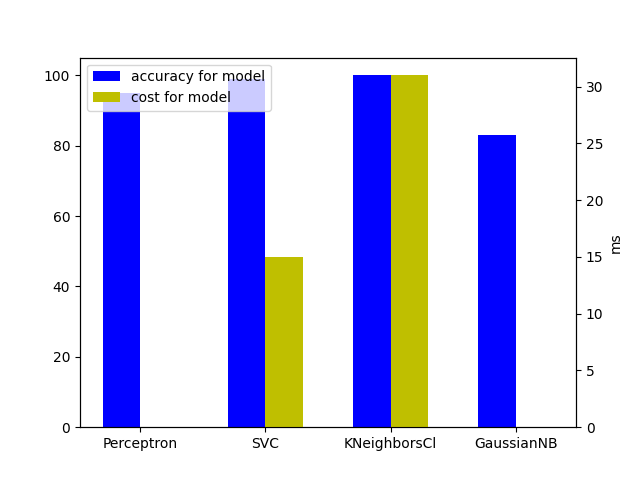
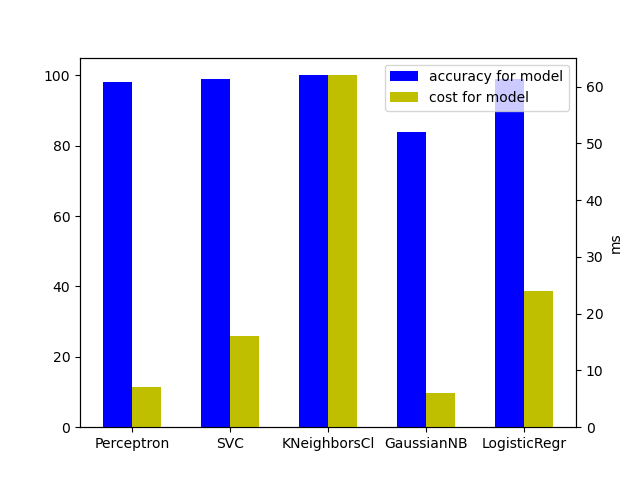
Added LogisticRegression

diff --git a/banknotes.py b/banknotes.py
@@ -17,22 +17,7 @@ from sklearn import svm
 from sklearn.linear_model import Perceptron
 from sklearn.naive_bayes import GaussianNB
 from sklearn.neighbors import KNeighborsClassifier
-
-
-"""
-seea also:
-https://github.com/DarkGoomba/scikit-learn-banknote/blob/master/Banknote%20Authentication.ipynb
-for some dettagle
-"""
-
-"""
-In the US there is about one counterfeit banknote for every 10,000 genuine banknotes.
-Although they are nearly impossible to identify with the naked eye, image
-processing is one method that can be used to spot discrepencies in counterfeit notes.
-Given a dataset of over a thousand notes with 4 attributes each, we can use machine
-learning models such as logistic regression and K-nearest neighbors to train an
-AI to classify banknotes.
-"""
+from sklearn.linear_model import LogisticRegression
 
 # Read data in from file
 with open("banknotes.csv") as f:
@@ -44,7 +29,10 @@ with open("banknotes.csv") as f:
         # print(row)
         data.append({
             "evidence": [float(cell) for cell in row[:4]],
-            "label": "Authentic" if row[4] == "0" else "Counterfeit"
+            "label": "Authentic" if row[4] == "0" else "Counterfeit",
+            # green Authentic - red Counterfeit
+            "color": (1, 0, 0) if row[4] == "0" else (0, 1, 0),
+            "class": row[4]
         })
 
 # pprint.pprint(data)
@@ -65,6 +53,7 @@ testing = data[:holdout]
 training = data[holdout:]
 
 X = [row["evidence"] for row in data]
+C = [row["color"] for row in data]
 
 attr = ['Variance', 'Skewness', 'Curtosis', 'Entropy', 'Class']
 
@@ -79,18 +68,28 @@ axarr[1, 0].hist([ r[2] for r in X], 30, density=True, stacked=True)
 axarr[1, 0].set_title(attr[2])
 axarr[1, 1].hist([ r[3] for r in X], 30, density=True, stacked=True)
 axarr[1, 1].set_title(attr[3])
-plt.savefig('graphs/distribution of each of these attributes.png')
+plt.savefig('graphs/distribution_attributes.png')
+plt.close()
+
+# scatter
+fig, axarr = plt.subplots(1, 2)
+axarr[0].scatter(x=[ r[0] for r in X],y=[ r[1] for r in X],c=C,s=15, cmap='PiYG', alpha=0.3)
+axarr[0].set(xlabel=attr[0], ylabel=attr[1])
+axarr[1].scatter(x=[ r[2] for r in X],y=[ r[3] for r in X],c=C,s=15, cmap='PiYG', alpha=0.3)
+axarr[1].set(xlabel=attr[2], ylabel=attr[3])
+fig.subplots_adjust(wspace=0.35)
+plt.savefig('graphs/scatter_plots.png')
 plt.close()
 
 model = None
 
 res = array([
     ['Model','Correct','Incorrect','Accuracy (%)','Cost (ms)'],
-    [0,0,0,0,0], [0,0,0,0,0], [0,0,0,0,0], [0,0,0,0,0] ])
+    [0,0,0,0,0], [0,0,0,0,0], [0,0,0,0,0], [0,0,0,0,0], [0,0,0,0,0] ])
 
-graf_res = array([[0,0,0,0],[0,0,0,0],[0,0,0,0],[0,0,0,0]])
+graf_res = array([[0,0,0,0,0],[0,0,0,0,0],[0,0,0,0,0],[0,0,0,0,0]])
 
-for x in range(4):
+for x in range(5):
 
     if x == 0:
         model = Perceptron()
@@ -100,6 +99,8 @@ for x in range(4):
         model = KNeighborsClassifier(n_neighbors=1)
     if x == 3:
         model = GaussianNB()
+    if x == 4:
+        model = LogisticRegression()
 
     t = time.process_time()
 
@@ -199,4 +200,21 @@ plt.ylabel('ms')
 plt.legend([acc, cost],['accuracy for model', 'cost for model'])
 
 plt.savefig('graphs/graph_acc_cost.png')
+plt.close()
+
+
+df = pd.DataFrame(X)
+fig, ax = plt.subplots()
+logreg = LogisticRegression()
+logreg.fit(df.iloc[:,[0,1]],[row["class"] for row in data])
+xx, yy = np.mgrid[-7.5:7.5:0.01, -15:15:0.01]
+grid = np.c_[xx.ravel(), yy.ravel()]
+probs = logreg.predict_proba(grid)[:, 1].reshape(xx.shape)
+contour = ax.contourf(xx, yy, probs, 25, cmap='PiYG', vmin=0, vmax=1)
+axcontour = fig.colorbar(contour)
+axcontour.set_label('Probability')
+axcontour.set_ticks([0, 0.25, 0.5, 0.75, 1])
+ax.scatter(x=[ r[0] for r in X],y=[ r[1] for r in X],c=C, s=15, cmap='PiYG', alpha=0.3, vmin=-0.4, vmax=1.4, data=data)
+ax.set(xlabel=attr[0], ylabel=attr[1])
+plt.savefig('graphs/probability_logistic_regression.png')
 plt.close()

diff --git a/README.md b/README.md
@@ -5,8 +5,8 @@ di Nicole Stolbovoi [MAT. 709168] e Luca Zeverino [MAT. 698710]
 # Indice  
 
 ### 1. [Introduzione](#1)  
-  
-### 2. [Metodologia](#2) 
+
+### 2. [Metodologia](#2)
  1. [Apprendimento supervisionato](#2.1)  
  2. [Tecniche di ML](#2.2)  
      2.1 [Support Vector Machine](#2.2.1)  
@@ -24,8 +24,8 @@ di Nicole Stolbovoi [MAT. 709168] e Luca Zeverino [MAT. 698710]
  7. [Valutazione delle prestazioni](#3.7)             
 
 ### 4. [Conclusioni](#4)
-              
-# <span id = "1">1. Introduzione</span> 
+
+# <span id = "1">1. Introduzione</span>
 <p align="justify">Negli Stati Uniti c'è circa una banconota contraffatta ogni 10.000 banconote autentiche. Da quando negli ultimi anni è stato lanciato il servizio di deposito diretto in contanti ai bancomat, le banconote contraffatte sono diventate un problema non solo per i commercianti, ma anche per le banche. Sebbene siano quasi impossibili da identificare ad occhio nudo, l'elaborazione delle immagini è un metodo che può essere utilizzato per individuare le discrepanze nelle banconote contraffatte.</p>
 <p align="justify">Dato un set di dati di oltre mille banconote con 4 attributi ciascuno, possiamo utilizzare modelli di apprendimento automatico come la regressione logistica e K-neirest neighbors per addestrare un'IA per classificare le banconote.</p>
 <p align="justify">Le immagini sono state tratte da banconote autentiche e contraffatte (n=1372). Ci sono quattro attributi in questo set di dati: varianza dell'immagine trasformata Wavelet (WTI), asimmetria del WTI, curvatura del WTI, entropia dell'immagine. L'ultima colonna è la classificazione della banconota (dove il valore 0 è falso e 1 è autentico). In matematica, una serie wavelet è una rappresentazione di una funzione di integrale quadrato (con valori reali o complessi) per determinate serie ortonormali generate da una wavelet.</p>
@@ -35,27 +35,27 @@ di Nicole Stolbovoi [MAT. 709168] e Luca Zeverino [MAT. 698710]
 <p align="justify">I modelli sperimentali sono stati configurati utilizzando il metodo <code>holdout</code>. Questo metodo separa il dataset in due sottoinsiemi (rapporto 60:40) chiamati training set e testing set. Il training set viene utilizzato per addestrare il classificatore mentre il testing set viene utilizzato per stimare il tasso di errore del classificatore addestrato.
 
 ## <span id = "2.1">2.1. Apprendimento supervisionato</span>
-<p align="justify">L'apprendimento supervisionato è una tecnica di apprendimento automatico che mira a istruire un sistema informatico in modo da consentirgli di predire i valori di output di un sistema rispetto ad un input sulla base di una serie di esempi, costituiti da coppie di input e di output, che gli vengono inizialmente forniti. L'obiettivo è quindi predire i valori delle caratteristiche di output dalle caratteristiche di input. 
+<p align="justify">L'apprendimento supervisionato è una tecnica di apprendimento automatico che mira a istruire un sistema informatico in modo da consentirgli di predire i valori di output di un sistema rispetto ad un input sulla base di una serie di esempi, costituiti da coppie di input e di output, che gli vengono inizialmente forniti. L'obiettivo è quindi predire i valori delle caratteristiche di output dalle caratteristiche di input.
 
-<p align="justify">Una caratteristica è una funzione da esempi in un valore. Il dominio di una caratteristica è l'insieme di valori che può restituire. 
+<p align="justify">Una caratteristica è una funzione da esempi in un valore. Il dominio di una caratteristica è l'insieme di valori che può restituire.
 
-<p align="justify">In un task di apprendimento supervisionato, al sistema è dato 
+<p align="justify">In un task di apprendimento supervisionato, al sistema è dato
 
   - una serie di funzioni di input
   - una serie di caratteristiche target
-  - una serie di esempi di addestramento, in cui vengono forniti i valori per le caratteristiche di input e le                 caratteristiche di output per ciascun esempio, e 
-  - una serie di esempi di test, in cui vengono forniti solo i valori per le caratteristiche di input. 
+  - una serie di esempi di addestramento, in cui vengono forniti i valori per le caratteristiche di input e le                 caratteristiche di output per ciascun esempio, e
+  - una serie di esempi di test, in cui vengono forniti solo i valori per le caratteristiche di input.
 
-## <span id = "2.2">2.2. Tecniche di ML</span> 
-  
+## <span id = "2.2">2.2. Tecniche di ML</span>
+
 ### <span id = "2.2.1">2.2.1 Support Vector Machine</span>
 <p align="justify">Le macchine a vettori di supporto (SVM, dall'inglese Support Vector Machines) sono dei modelli di apprendimento supervisionato associati ad algoritmi di apprendimento per la regressione e la classificazione. Dato un insieme di esempi per l'addestramento, ognuno dei quali etichettato con la classe di appartenenza fra le due possibili classi, un algoritmo di addestramento per le SVM costruisce un modello che assegna i nuovi esempi a una delle due classi, ottenendo quindi un classificatore lineare binario non probabilistico. Un modello SVM è una rappresentazione degli esempi come punti nello spazio, mappati in modo tale che gli esempi appartenenti alle due diverse categorie siano chiaramente separati da uno spazio il più possibile ampio. I nuovi esempi sono quindi mappati nello stesso spazio e la predizione della categoria alla quale appartengono viene fatta sulla base del lato nel quale ricade.
 
 ### <span id = "2.2.2">2.2.2 Perceptron</span>
 <p align="justify">Il perceptron è un algoritmo per l'apprendimento supervisionato di classificatori binari. Un classificatore binario è una funzione che può decidere se un input, rappresentato da un vettore di numeri, appartiene o meno a una classe specifica. È un tipo di classificatore lineare, ovvero un algoritmo di classificazione che effettua le sue previsioni sulla base di una funzione predittrice lineare che combina un insieme di pesi con il vettore delle caratteristiche.
-  
+
 ### <span id = "2.2.3">2.2.3 Gaussian Naive Bayes</span>
-  
+
 ### <span id = "2.2.4">2.2.4 KNearest Neighbors</span>
 <p align="justify">I K esempi di training che hanno le caratteristiche di input più vicine all'esempio vengono usati per predire il valore per il nuovo esempio. La previsione potrebbe essere la moda, la media o una qualche interpolazione tra la previsione di questi K esempi di training.
 
@@ -66,11 +66,11 @@ I pesi delle caratteristiche possono essere forniti come input. È anche possibi
 <p align="justify">Quali sono gli svantaggi della classificazione k-neighbor più vicino? Uno è che è abbastanza lento dover attraversare e misurare la distanza tra un punto e ognuno di questi punti vicini. Ma ci sono modi per cercare di aggirarlo. Esistono strutture di dati che possono aiutare a rendere più rapidamente possibile trovare questi vicini. Ci sono anche tecniche che puoi usare per provare a sfoltire alcuni di questi dati, rimuovere alcuni dei punti dati in modo da rimanere solo con i punti dati rilevanti solo per renderlo un po' più semplice.
 <p><a href="#top">Torna all'inizio</a>
 
-# <span id = "3">3.Modellazione e analisi</span> 
-  
-## <span id = "3.1">3.1 Importazione librerie</span> 
+# <span id = "3">3.Modellazione e analisi</span>
+
+## <span id = "3.1">3.1 Importazione librerie</span>
 Il seguente script viene utilizzato per importare i moduli Python:
-  
+
 ```
 import csv
 import random
@@ -80,17 +80,17 @@ import time
 from tabulate import tabulate
 from numpy import *
 ```
-  
+
 <p align="justify">Sono stati utilizzati gli algoritmi: Support Vector Machines, K Nearest Neighbor (1), Perceptron Learning e Gaussian Naive Bayes, i quattro più comuni per i problemi di classificazione dell'apprendimento automatico:
-  
+
 ```
 from sklearn import svm
 from sklearn.linear_model import Perceptron
 from sklearn.naive_bayes import GaussianNB
 from sklearn.neighbors import KNeighborsClassifier
-  
+
 ︙
-  
+
 for x in range(4):
 
     if x == 0:
@@ -102,13 +102,13 @@ for x in range(4):
     if x == 3:
         model = GaussianNB()
 ```
-  
+
 <p align="justify">Si noti che dopo aver importato gli algoritmi, possiamo scegliere quale modello utilizzare. Il resto del codice rimarrà lo stesso.</p>
-  
+
 ## <span id = "3.2">3.2 Caricamento dataset</span>  
 <p align="justify">Una volta importate le librerie, il passaggio successivo consiste nel caricare il dataset nella nostra applicazione. Quindi apriamo il file con le funzionalità di base del file python e utilizziamo la funzione <code>csv.reader()</code> del modulo csv, che legge il dataset nel formato CSV.</p>
 
-``` 
+```
 # Read data from file
 with open("banknotes.csv") as f:
     reader = csv.reader(f)
@@ -117,7 +117,7 @@ with open("banknotes.csv") as f:
 
 ## <span id = "3.3">3.3 Divisione degli attributi</span>  
 <p align="justify">In questo dataset, varianza, inclinazione, curvatura ed entropia sono caratteristiche mentre la colonna della classe contiene l'etichetta. Lo script seguente, insieme alla parte sopra menzionata, divide i dati in evidenze e etichette. Quindi archivia le evidenze e l'etichetta in una elenco <code>data = []</code>.  
-  
+
 ```
     data = []
     for row in reader:
@@ -126,12 +126,12 @@ with open("banknotes.csv") as f:
             "evidence": [float(cell) for cell in row[:4]],
             "label": "Authentic" if row[4] == "0" else "Counterfeit"
 ```
-  
+
 <p align="justify">Il ciclo <code>for</code> è l'indice che vogliamo filtrare dal nostro dataset, nella riga <code>"evidence": [float(cell) for cell in row[:4]]</code> filtriamo dalla colonna 0 alla colonna 3 che contiene l'insieme degli attributi evidenti. Nella riga <code>"label": "Authentic" if row[4] == "0" else "Counterfeit"</code>, abbiamo filtrato solo i record dalla colonna quattro che contiene le etichette (classe). Se l'etichetta è 0, la banconota è autentica e quando l'etichetta è 1, la banconota è contraffatta/falsa.</p>  
-  
+
 ## <span id = "3.4">3.4 Separazione del dataset</span>
 <p align="justify">Il training set viene utilizzato per addestrare gli algoritmi di apprendimento automatico mentre il testing set viene utilizzato per valutare le prestazioni degli algoritmi di apprendimento automatico.
-  
+
 ```
 # Separate data into training and testing groups
 holdout = int(0.40 * len(data)) # prende 40% del dataset
@@ -139,32 +139,32 @@ random.shuffle(data) # mischia dati
 testing = data[:holdout]
 training = data[holdout:]
 ```
-  
+
 <p align="justify">Innanzitutto, calcoliamo la lunghezza dell'elenco di dati in <code>holdout = int(0.40 * len(data))</code> e mescoliamo gli elementi dei dati per prestazioni migliori utilizzando la funzione <code>random.shuffle()</code> dal modulo random. Quindi memorizziamo il 40% dei dati nel gruppo testing e il 60% dei dati nel gruppo training.</p>
-  
+
 ## <span id = "3.5">3.5 Addestramento sul training set</span>
 <p align="justify">Il set di evidenze di training viene archiviato come <code>X_training</code> (input), mentre il set di etichette di training viene archiviato come <code>y_training</code> (output), quindi passato al metodo <code>fit()</code>.
-  
+
 ```
     # Train model on training set
     X_training = [row["evidence"] for row in training]
     y_training = [row["label"] for row in training]
     model.fit(X_training, y_training)
 ```
- 
+
 ## <span id = "3.6">3.6 Predizione sul testing set</span>
 <p align="justify">Dopo aver addestrato l'algoritmo, abbiamo eseguito previsioni sul set di test. Per fare previsioni, viene utilizzato il metodo <code>predict()</code>. I record da prevedere vengono passati come parametri al metodo <code>predict()</code> come mostrato di seguito:
-  
+
 ```
     # Make predictions on the testing set
     X_testing = [row["evidence"] for row in testing]
     y_testing = [row["label"] for row in testing]
     predictions = model.predict(X_testing)
 ```
-  
+
 ## <span id = "3.7">3.7 Valutazione delle prestazioni</span>
 Abbiamo valutato le prestazioni del modello attraverso un semplice codice Python:
-  
+
 ```
     # Compute how well we performed
     correct = 0
@@ -177,9 +177,9 @@ Abbiamo valutato le prestazioni del modello attraverso un semplice codice Python
         else:
             incorrect += 1
 ```
-  
+
 e infine stampiamo l'accuratezza del modello per migliorarne la comprensione:
-  
+
 ```
     res[x+1][0] = type(model).__name__
     res[x+1][1] = correct
@@ -189,9 +189,20 @@ e infine stampiamo l'accuratezza del modello per migliorarne la comprensione:
 
 print (tabulate(res[1:], headers=res[0]))
 ```
-  
+
 <p><a href="#top">Torna all'inizio</a>
 
-# <span id = "4">4. Conclusioni</span> 
+# <span id = "4">4. Conclusioni</span>
 <p align="justify">In questo progetto abbiamo spiegato come abbiamo risolto il problema dell'autenticazione delle banconote utilizzando tecniche di machine learning. Abbiamo confrontato quattro diversi algoritmi in termini di prestazioni e abbiamo concluso che gli algoritmi KNN e SVM sono i migliori algoritmi per l'autenticazione delle banconote con una precisione del 100% e del 99,45%.</p>
 <p><a href="#top">Torna all'inizio</a>
+
+
+```
+Model           Correct    Incorrect    Accuracy (%)    Cost (ms)
+------------  ---------  -----------  --------------  -----------
+Perceptron          542            6           98.91            7
+SVC                 546            2           99.64           16
+KNeighborsCl        548            0          100              62
+GaussianNB          465           83           84.85            6
+LogisticRegr        543            5           99.09           24
+```
